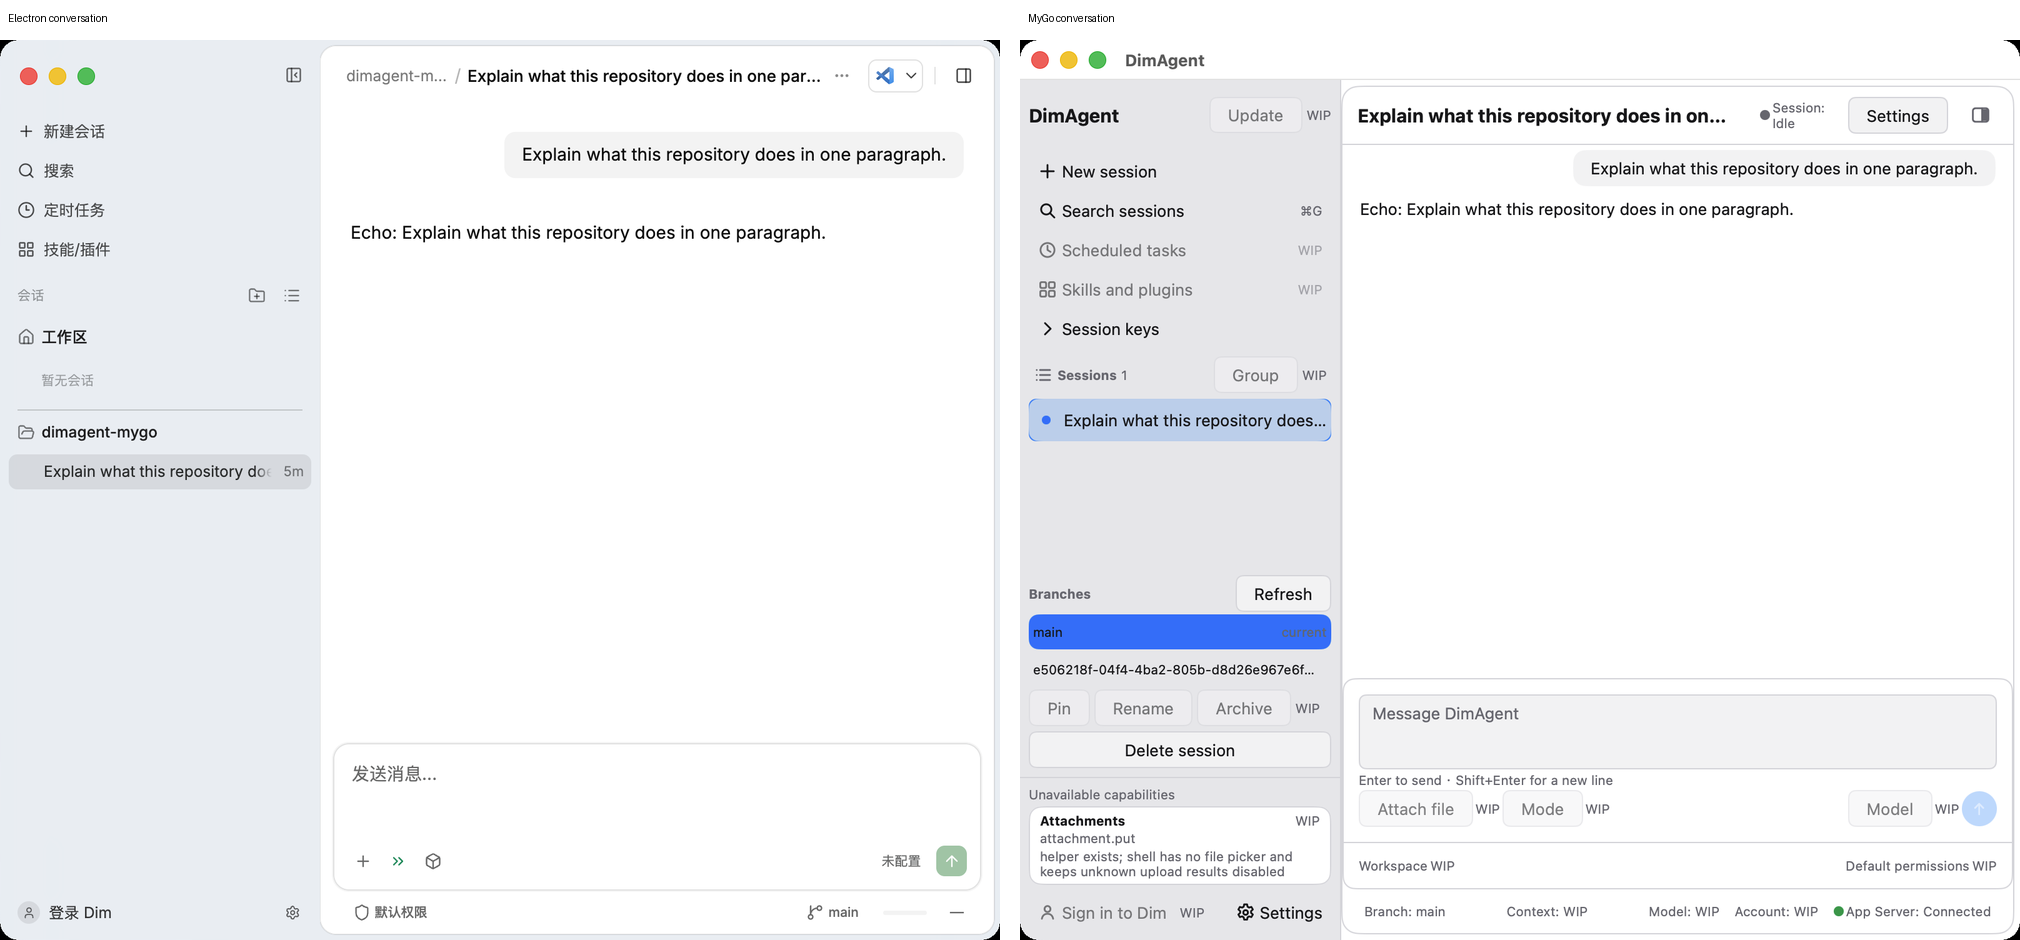
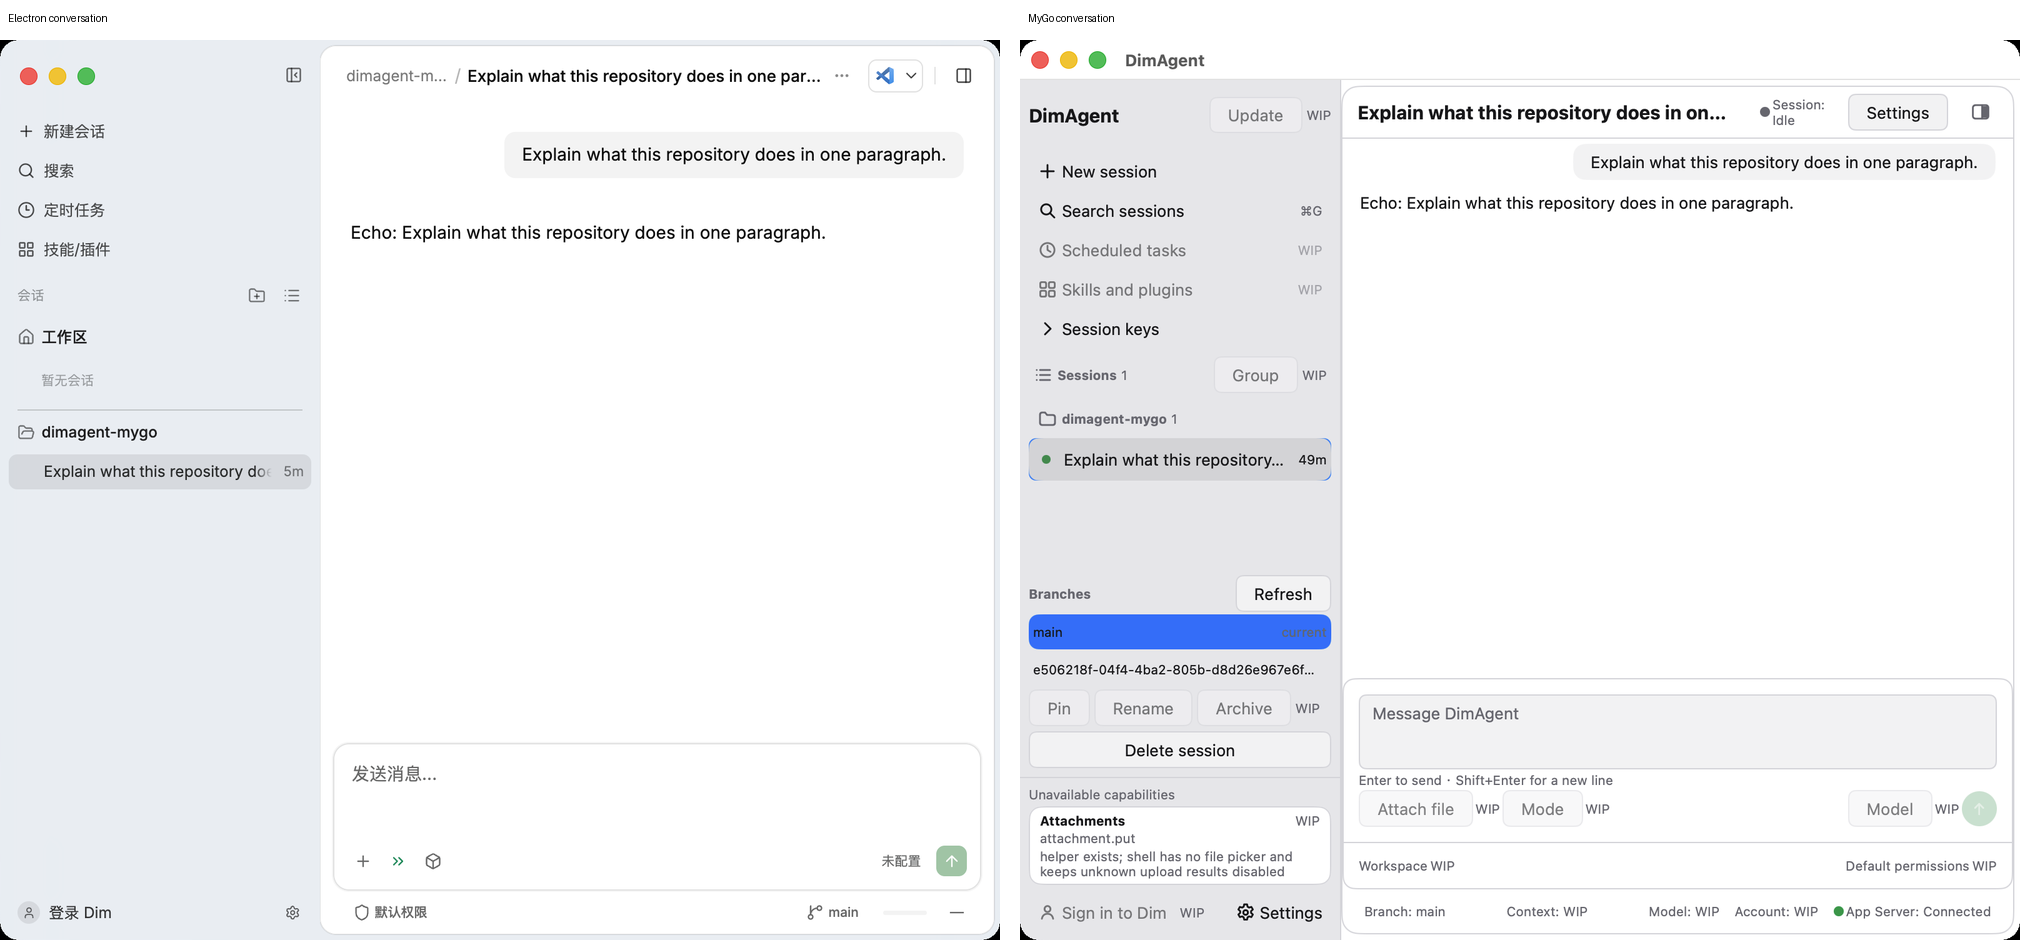
feat(ui): group sessions by project and show their time

Changed region(s): [[0.655, 0.0926, 0.998, 0.2468], [0.499, 0.4011, 0.6861, 0.4936], [0.9668, 0.833, 0.998, 0.8947]]

diff --git a/internal/ui/sidebar.go b/internal/ui/sidebar.go
@@ -8,6 +8,7 @@ import (
 	"runtime"
 	"strconv"
 	"strings"
+	"time"
 
 	"github.com/egoist/mygo/ui"
 )
@@ -40,6 +41,9 @@ type sidebarRow struct {
 	count int
 	// sessionID identifies a session row, and keys the list.
 	sessionID string
+	// updatedAt is the row's catalog time in epoch milliseconds; zero draws
+	// no time.
+	updatedAt int64
 	// title is the session row's display text; empty when the catalog has
 	// none.
 	title string
@@ -72,7 +76,7 @@ func threadRows(sessions []Session, locale Locale) []sidebarRow {
 	rows := make([]sidebarRow, 0, len(sessions))
 	if !grouped {
 		for _, session := range sessions {
-			rows = append(rows, sidebarRow{sessionID: session.ID, title: session.Title})
+			rows = append(rows, sidebarRow{sessionID: session.ID, title: session.Title, updatedAt: session.UpdatedAt})
 		}
 		return rows
 	}
@@ -86,13 +90,40 @@ func threadRows(sessions []Session, locale Locale) []sidebarRow {
 		if _, ok := buckets[label]; !ok {
 			order = append(order, label)
 		}
-		buckets[label] = append(buckets[label], sidebarRow{sessionID: session.ID, title: session.Title})
+		buckets[label] = append(buckets[label], sidebarRow{sessionID: session.ID, title: session.Title, updatedAt: session.UpdatedAt})
 	}
 	for _, label := range order {
 		rows = append(rows, sidebarRow{group: true, label: label, count: len(buckets[label])})
 		rows = append(rows, buckets[label]...)
 	}
 	return rows
+}
+
+// relativeStamp is the sidebar row's relative time, as the reference shows it
+// ("5m", "2h", "3d"). The value is session.catalog's updatedAt: epoch
+// milliseconds when it looks like one, epoch seconds otherwise; zero or a
+// future time draws nothing rather than a made-up stamp.
+func relativeStamp(updatedAt int64, now time.Time) string {
+	if updatedAt <= 0 {
+		return ""
+	}
+	stamp := updatedAt
+	if stamp < 1_000_000_000_000 {
+		stamp *= 1000
+	}
+	delta := now.Sub(time.UnixMilli(stamp))
+	switch {
+	case delta < 0:
+		return ""
+	case delta < time.Minute:
+		return "now"
+	case delta < time.Hour:
+		return strconv.Itoa(int(delta/time.Minute)) + "m"
+	case delta < 24*time.Hour:
+		return strconv.Itoa(int(delta/time.Hour)) + "h"
+	default:
+		return strconv.Itoa(int(delta/(24*time.Hour))) + "d"
+	}
 }
 
 // rowIndex returns the index of the session's row, or -1 when the catalog no
@@ -480,6 +511,10 @@ func threadRow(c *ui.Context, k tokens, v SidebarView, row sidebarRow, on func()
 		})
 		ui.Text(c, row.title).FontSize(k.bodySize).TextColor(k.sidebarForeground).
 			SingleLine().Grow(1)
+		if stamp := relativeStamp(row.updatedAt, time.Now()); stamp != "" {
+			ui.Text(c, stamp).FontSize(k.smallSize).TextColor(k.sidebarForeground).
+				SingleLine()
+		}
 	})
 }
 

diff --git a/internal/ui/sidebar_test.go b/internal/ui/sidebar_test.go
@@ -6,6 +6,7 @@ import (
 	"slices"
 	"strings"
 	"testing"
+	"time"
 
 	"github.com/egoist/mygo/ui"
 )
@@ -395,6 +396,28 @@ func TestSidebarDeleteWithoutCallbackStaysWIP(t *testing.T) {
 	}
 	if !strings.Contains(info.Description, reasonDelete) {
 		t.Errorf("delete description %q does not carry %q", info.Description, reasonDelete)
+	}
+}
+
+// TestSidebarRelativeTime checks the row stamp the reference shows: catalog
+// milliseconds become minutes, hours and days, and a zero time draws nothing.
+func TestSidebarRelativeTime(t *testing.T) {
+	now := time.Date(2026, 11, 9, 12, 0, 0, 0, time.UTC)
+	cases := []struct {
+		name string
+		in   int64
+		want string
+	}{
+		{"zero", 0, ""},
+		{"seconds", now.Add(-5 * time.Minute).Unix(), "5m"},
+		{"millis", now.Add(-2 * time.Hour).UnixMilli(), "2h"},
+		{"days", now.Add(-3 * 24 * time.Hour).UnixMilli(), "3d"},
+		{"future", now.Add(time.Minute).UnixMilli(), ""},
+	}
+	for _, tc := range cases {
+		if got := relativeStamp(tc.in, now); got != tc.want {
+			t.Errorf("%s: relativeStamp(%d) = %q, want %q", tc.name, tc.in, got, tc.want)
+		}
 	}
 }
 

diff --git a/internal/integration/integration.go b/internal/integration/integration.go
@@ -4,6 +4,7 @@ import (
 	"context"
 	"errors"
 	"fmt"
+	"path/filepath"
 	"sync"
 
 	"github.com/arcships/dimagent-mygo/internal/appserver"
@@ -925,7 +926,19 @@ func Catalog(ctx context.Context, sup *supervisor.Supervisor) ([]ui.Session, err
 	}
 	rows := make([]ui.Session, 0, len(result.Sessions))
 	for _, summary := range result.Sessions {
-		rows = append(rows, ui.Session{ID: summary.SessionID, Title: sessionTitle(summary)})
+		// The project heading and the row's relative time are catalog facts, not
+		// a local list: cwd's base name and updatedAt, as the daemon returned
+		// them. An empty cwd stays ungrouped instead of inventing a name.
+		group := ""
+		if summary.Cwd != "" {
+			group = filepath.Base(summary.Cwd)
+		}
+		rows = append(rows, ui.Session{
+			ID:        summary.SessionID,
+			Title:     sessionTitle(summary),
+			Group:     group,
+			UpdatedAt: summary.UpdatedAt,
+		})
 	}
 	return rows, nil
 }

diff --git a/internal/integration/integration_unix_test.go b/internal/integration/integration_unix_test.go
@@ -514,6 +514,12 @@ func TestSessionControllerBridge(t *testing.T) {
 	if len(rows) != 1 || rows[0].ID != "s1" || rows[0].Title != "Fake session" {
 		t.Fatalf("catalog rows = %#v", rows)
 	}
+	if rows[0].Group != "tmp" {
+		t.Errorf("catalog group = %q, want the cwd's base name tmp", rows[0].Group)
+	}
+	if rows[0].UpdatedAt != 1700000000001 {
+		t.Errorf("catalog updatedAt = %d, want the daemon's value", rows[0].UpdatedAt)
+	}
 
 	if err := controller.Close(ctx); err != nil {
 		t.Fatalf("Close: %v", err)

diff --git a/internal/ui/shell.go b/internal/ui/shell.go
@@ -51,6 +51,9 @@ type Session struct {
 	// no grouping fact of its own and renders one flat list while every
 	// Group is empty; it never invents a project name.
 	Group string
+	// UpdatedAt is session.catalog's updatedAt in epoch milliseconds, shown as
+	// the row's relative time. Zero draws no time.
+	UpdatedAt int64
 }
 
 // Branch is read-only branch metadata supplied by the App Server. Branch
